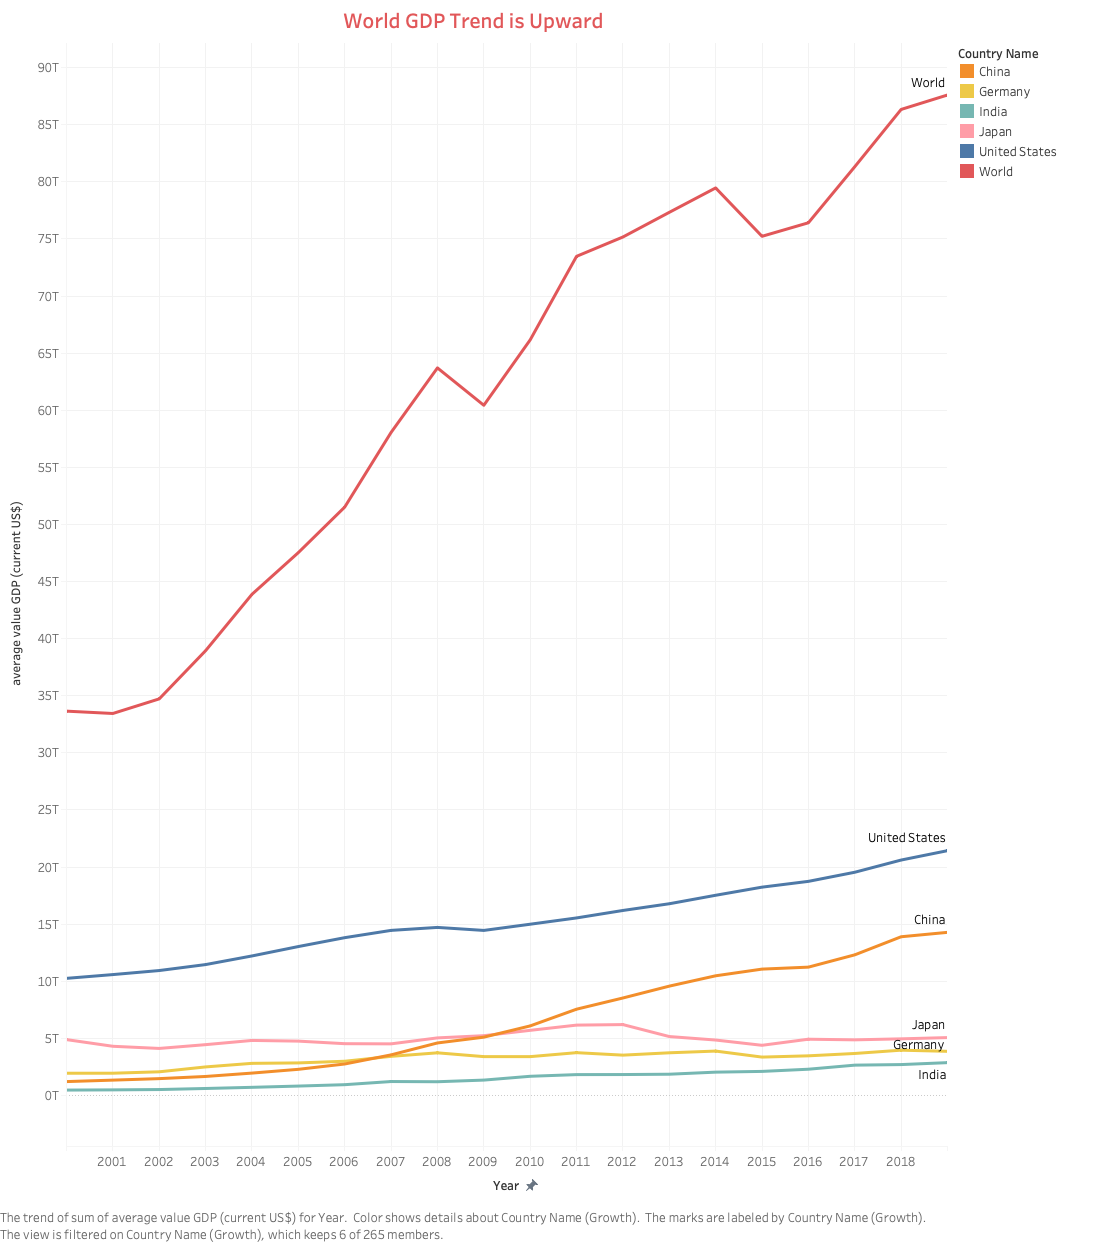
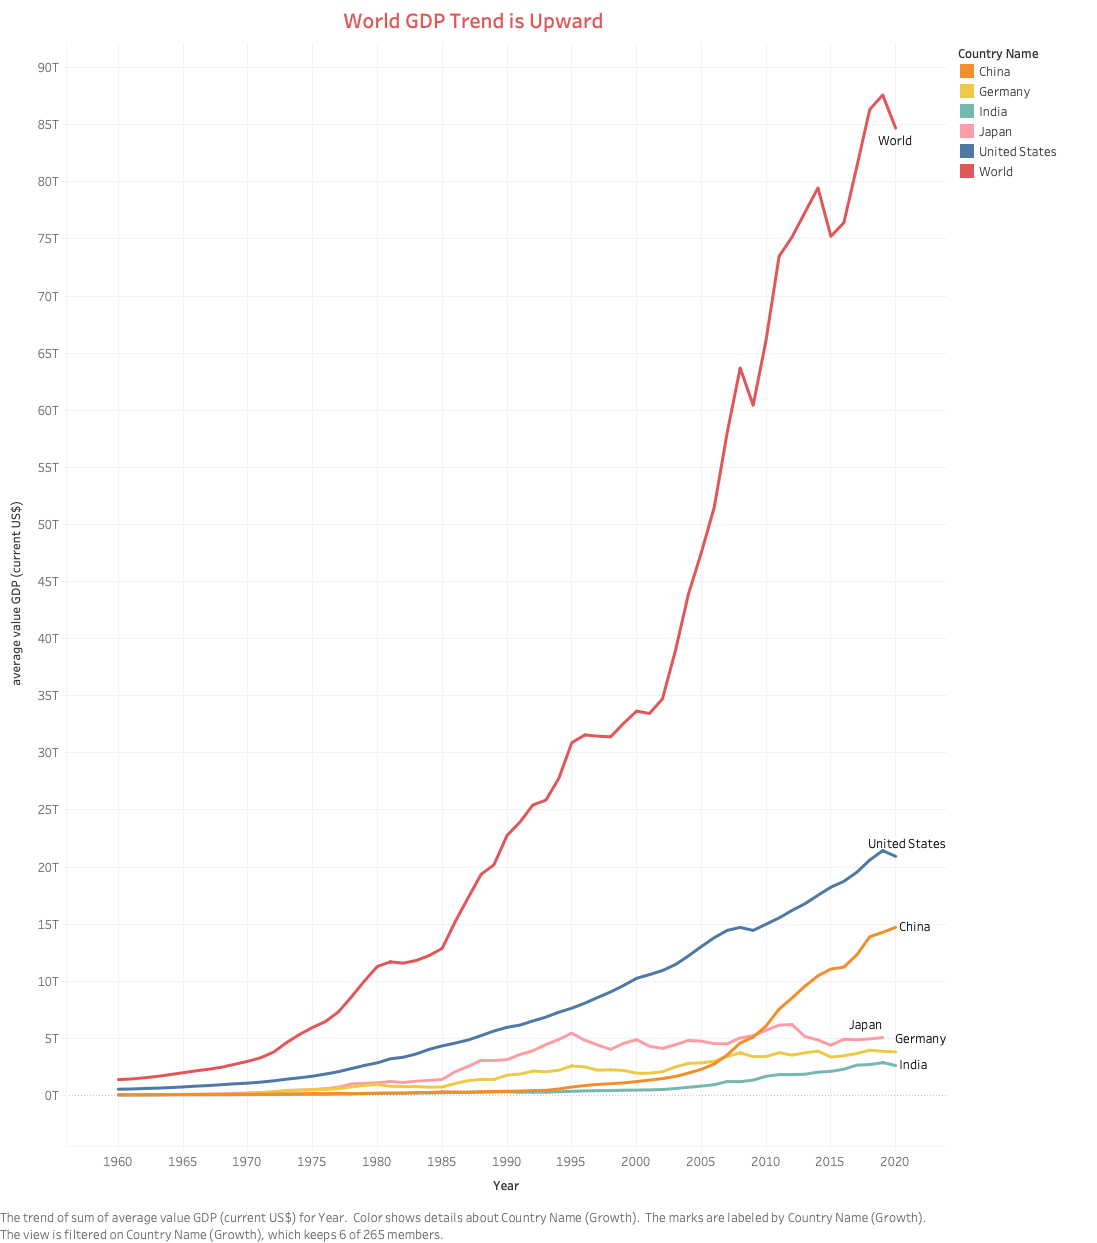
report

diff --git a/projects/A4/A4_report.html b/projects/A4/A4_report.html
@@ -35,10 +35,14 @@
 			</p>
 
 			<ul>
-				<li>Use dark/cold theme of color to emphasize the calmness of the mature economy phase.</li>
-				<li>Horizontal axis is narrowed down to 2015 to 2019, clipping a limited range of year</li>
-				<li>Log scale on the vertical axis is adopted to less emphasize the magnitude of difference over years</li>
-				<li>Up to top 10 countries are shown in the visualization to emphasize the trend is stable</li>
+				<li><strong>[Deceptive or earnest: 1] Use dark/cold theme of color to emphasize the calmness of the mature economy phase, including its title.</strong></li>
+				<p>The muted, cool color palette (blues, grays, soft pinks) creates a visual atmosphere of stability and calmness that reinforces the opinion of "maturity" rather than dynamic growth. This color choice works subconsciously to make viewers associate the data trends. We did not put 2 since the color choice can be felt very intentional. Alternative approaches would be using black/white (which felt too stark but still neutral), but the cool palette best supported the maturity narrative.</p>
+				<li><strong>[Deceptive or earnest: -1] Horizontal axis is narrowed down to 2015 to 2019, clipping a limited range of year</strong></li>
+				<p>By creating the narrower time range, the visualization makes audience feel the growth curves stable. This selective time framing is deceptive because it excludes historical context that might show more volatile periods or rapid growth phases, which would contradict the "maturity" claim. A longer time series (e.g., 1990-2019) would reveal more dramatic growth trajectories, particularly for China. This 5-year window was the most effective at making the economy appear to have entered a steady, mature phase with minimal volatility.</p>
+				<li><strong>[Deceptive or earnest: -2] Log scale on the vertical axis is adopted to less emphasize the magnitude of difference over years</strong></li>
+				<p>The logarithmic scale is the most deceptive choice here, as it compresses visual differences in growth rates and makes exponential growth appear linear and gradual. Although log scales are technically valid for comparing proportional changes, they make the audience feel the absolute magnitude of economic expansion—China's GDP growth of several trillion dollars appears as modest as smaller economies' growth of hundreds of billionstheir first glance. This scale makes all countries' trajectories look similarly "mature" and stable. We initially considered a linear scale, but we adopted a log scale because a linear scale would show upward trends, especially for the US and China, which would counter the maturity argument. The log scale was used to visually flatten growth and support the proposition.</p>
+				<li><strong>[Deceptive or earnest: 0.5] Up to top 10 countries are shown in the visualization to emphasize the trend is stable</strong></li>
+				<p>Using a relatively large number of countries, the visualization places less emphasis on growing nations (e.g., the United States, China) than with a smaller number of nations. This selection emphasizes stability by cherry-picking countries already in "mature" phases of development with a decent claim (i.e., top 10 GDP countries). However, this decision is closer to neutral because it's also a reasonable editorial choice for clarity—showing too many countries would create visual clutter. The mild deception lies in excluding emerging markets with higher growth rates (like Vietnam or Bangladesh) that would suggest the global economy still has high-growth regions. Alternatives included showing the G7 countries, OECD members, etc.</p>
 			</ul>
     </section>
 
@@ -57,19 +61,25 @@
 			</p>
 
 			<ul>
-				<li>Vibrant color is used to draw attention to the data and make it more visually striking.</li>
-				<li>Year range is extended to 2000 to 2019 to show a broader historical context, showing histrical growth of the economy.</li>
-				<li>Linear scale on the vertical axis is adopted to show the actual magnitude of difference over years.</li>
-				<li>World economy is shown in a global context, not just in a single country, indicating worldwide economic trends continues to grow.</li>
-				<li>Top 5 countries are selected to show the most significant contributors to global economic growth.</li>
+				<li><strong>[Deceptive or earnest: 1] Vibrant color is used to draw attention to the data and make it more visually striking as well as the title.</strong></li>
+				<p>The red color for the "World" aggregate line, combined with the bold red title "World GDP Trend is Upward," creates a big visual impact that conveys a main message of growth, which is the opposite of calm maturity. Red is psychologically associated with energy, which primes viewers to interpret the data as showing an active, growing economy. This is largely earnest because this entire color usage is not felt artificial, but natural. However, there's a slight deceptive element in how the color choice emotionally frames the interpretation. The prominence of the red world line also draws the eye immediately, making it the focal point of the visualization. </p>
+				<li><strong>[Deceptive or earnest: 2] Year range is extended to 1956 to 2019 to show a broader historical context, showing histrical growth of the economy.</strong></li>
+				<p>Extending the timeline to over 60 years is a highly earnest decision because it provides comprehensive historical context and demonstrates the long-term exponential growth trajectory of the global economy without hiding anything compared to the other one. This extended view reveals that the dramatic upward curve continues through 2019, with no signs of maturity. The longer timeframe also captures major economic transitions— industrialization, globalization, and the rise of emerging markets—all of which show sustained growth rather than stabilization. We initially made a visualization of shorter but still longer time frame (e.g., 2000-2019) than the other one (i.e., 2015-2019), but we adopted the entire time frame because the initial one wouldn't adequately show the accelerating growth pattern. The 60+ year view is the most honest representation of long-term trends and effectively demonstrates that growth has been persistent and accelerating, not slowing into maturity.</p>
+				<li><strong>[Deceptive or earnest: 2] Linear scale on the vertical axis is adopted to show the actual magnitude of difference over years.</strong></li>
+				<p>The linear scale is a fully earnest and conventional choice that accurately represents the absolute magnitude of economic growth. Unlike the logarithmic scale used in the FOR visualization, the linear scale reveals the dramatic acceleration in global GDP—the steep upward curve, especially from 2000 onward, visually demonstrates explosive growth rather than mature stability. This scale choice is transparent and shows the actual trends of the growth. The dramatic visual curve successfully indicates that recent years have seen far larger absolute increases in GDP than earlier years. We did not adopt alternative scales (e.g., logarithmic) because they would compress this dramatic growth pattern. The linear scale effectively communicates that the world economy is adding increasingly large absolute amounts of wealth each year, which contradicts the notion of maturity.</p>
+				<li><strong>[Deceptive or earnest: 2] World economy is shown in a global context, indicating worldwide economic trends continues to grow.</strong></li>
+				<p>Adding the "World" aggregate line (shown in red) is an earnest decision that provides the most comprehensive view of the global economic trend. This aggregation demonstrates that even if some individual countries show stable growth, the overall global economy continues to grow. The world total provides a complete picture rather than a selective one. This design choice is highly transparent and informative—it prevents cherry-picking of specific countries and shows the full scope of global economic expansion. The visual dominance of the world line emphasizes that this aggregate measure is the most important for evaluating the proposition about the "world economy."</p>
+				<li><strong>[Deceptive or earnest: -0.5] Top 5 countries are selected to show the most significant contributors to global economic growth.</strong></li>
+			    <p>Selecting only the top 5 countries (the United States, China, Japan, Germany, and India) is a slightly deceptive choice because it can feel like it's a small number of countries, and some audience might feel they are arbitrarily picked, but this decision is closer to neutral because selecting the top 5 GDP countries is a decent claim, and showing too many lines would create visual clutter. Thanks to the small number, we can see that the United States and China stand out in their economic growth clearly, leading to the growth appreciation. Alternatives could be showing all the top 10 countries and highlighting only the prominent growing countries, but we did not adopt it since it would provide overwhelming information for the audience and divert from where we want the audience to focus. The top 5 provides clarity while maximizing the visual impact of the growth story.</p>
 			</ul>
     </section>
 
     <section>
       <h2>Final Reflection</h2>
 
-      <p>[WRITE FINAL REFLECTION PARAGRAPHS HERE.]</p>
-    </section>
+      <p>Certain aspects of this design process were intuitive—selecting color themes, for instance, came naturally, as the associations between vibrant red and energy versus cool tones and calmness are deeply ingrained in visual culture. What surprised me most was the strong persuasive potential of technical choices at first hand: scaling (logarithmic vs. linear) and temporal range selection (1956-2019 vs. 2015-2019). These decisions can easily change how a visualization appears for audiences and, as a result, how they interpret the data. By grappling with this assignment, I learn that a logarithmic scale can make exponential growth appear stable and can put less emphasis on it depending on the audience, while a linear scale shows its rapid growth. Also, cropping the time axis to recent years can hide long-term trends that would counter an intended proposition. The process of creating a visualization from two sides has made me acutely aware of the dual aspect of these techniques—they are essential analytical tools, but they also carry significant potential for deception if applied with malicious intent. Defining appropriate scales to endorse/object to a proposition was challenging for me because it requires a comprehensive understanding of the data's full range and trends, reconfirming the importance of exploratory data analysis and design sketch before making any design with a visualization tool.</p>
+      <p>As this assignment indicates, there is rarely a clear boundary between deceptive and earnest design choices. Also, this determination depends on people's views. In my view, ethical analysis and visualization are essentially defined by the author's neutrality and intention. While I think all forms of representation always carry some bias and perspective, the critical difference is whether the representation can be naturally and consistently interpreted by diverse audiences. Acceptable persuasive choices present data in a clear and concise manner, enabling audiences from different backgrounds and cultures to have consistent interpretations. On the other hand, misleading visualizations deliberately bend neutrality and universality, prioritizing one interpretation while obscuring alternatives. As a result, it leads to benefiting one perspective at the expense of others.</p>
+	</section>
 	</main>
 </body>
 </html>
